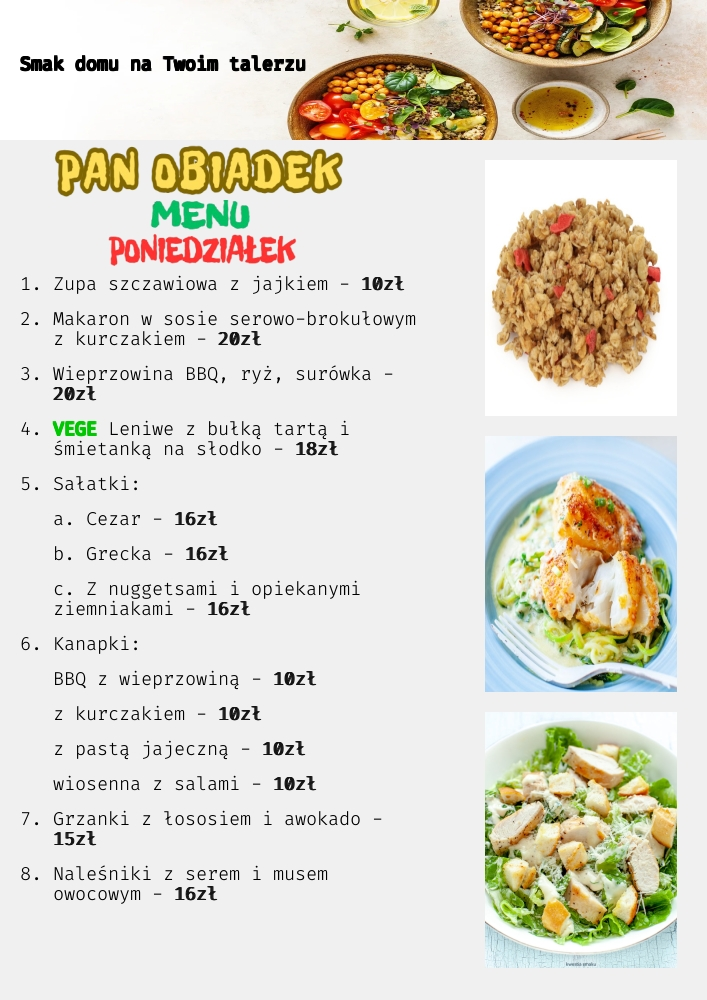
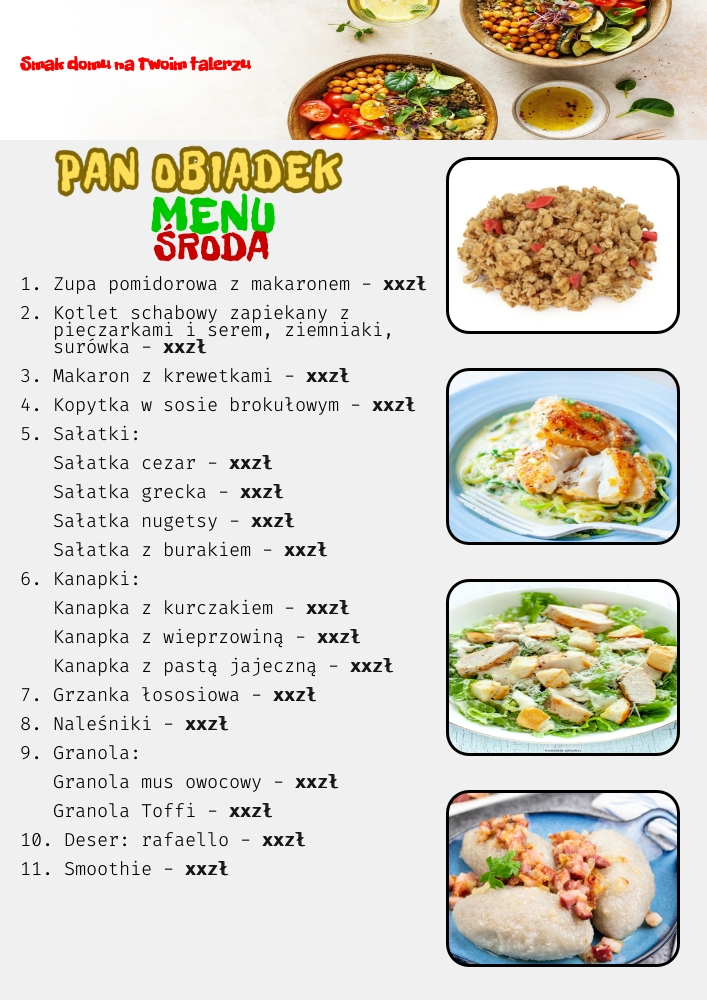
ADD generating menu jpeg

diff --git a/app/views/test.view.php b/app/views/test.view.php
@@ -1,6 +1,27 @@
 <?php
 $max_chars = 20; // Maksymalna liczba znaków na linię, uwzględniając "asd"
 
+$days = [
+    0 => "NIEDZIELA",
+    1 => "PONIEDZIAŁEK",
+    2 => "WTOREK",
+    3 => "ŚRODA",
+    4 => "CZWARTEK",
+    5 => "PIĄTEK",
+    6 => "SOBOTA"
+];
+$offs = [
+    0 => 40,
+    1 => 0,
+    2 => 60,
+    3 => 70,
+    4 => 40,
+    5 => 65,
+    6 => 65
+];
+
+$day = 3;
+
 function podziel_tekst_na_linie($tekst, $max_chars) {
     $wynik = '';
     $prefix = "   ";
@@ -42,6 +63,73 @@ function podziel_tekst_na_linie($tekst, $max_chars) {
 
     return $wynik;
 }
+
+function roundCorners($source, $radius) {
+    $ws = imagesx($source);
+    $hs = imagesy($source);
+
+    $corner = $radius + 2;
+    $s = $corner*2;
+
+    $src = imagecreatetruecolor($s, $s);
+    imagecopy($src, $source, 0, 0, 0, 0, $corner, $corner);
+    imagecopy($src, $source, $corner, 0, $ws - $corner, 0, $corner, $corner);
+    imagecopy($src, $source, $corner, $corner, $ws - $corner, $hs - $corner, $corner, $corner);
+    imagecopy($src, $source, 0, $corner, 0, $hs - $corner, $corner, $corner);
+
+    $q = 8; # change this if you want
+    $radius *= $q;
+
+    # find unique color
+    do {
+        $r = rand(0, 255);
+        $g = rand(0, 255);
+        $b = rand(0, 255);
+    } while (imagecolorexact($src, $r, $g, $b) < 0);
+
+    $ns = $s * $q;
+
+    $img = imagecreatetruecolor($ns, $ns);
+    $alphacolor = imagecolorallocatealpha($img, $r, $g, $b, 127);
+    imagealphablending($img, false);
+    imagefilledrectangle($img, 0, 0, $ns, $ns, $alphacolor);
+
+    imagefill($img, 0, 0, $alphacolor);
+    imagecopyresampled($img, $src, 0, 0, 0, 0, $ns, $ns, $s, $s);
+    imagedestroy($src);
+
+    imagearc($img, $radius - 1, $radius - 1, $radius * 2, $radius * 2, 180, 270, $alphacolor);
+    imagefilltoborder($img, 0, 0, $alphacolor, $alphacolor);
+    imagearc($img, $ns - $radius, $radius - 1, $radius * 2, $radius * 2, 270, 0, $alphacolor);
+    imagefilltoborder($img, $ns - 1, 0, $alphacolor, $alphacolor);
+    imagearc($img, $radius - 1, $ns - $radius, $radius * 2, $radius * 2, 90, 180, $alphacolor);
+    imagefilltoborder($img, 0, $ns - 1, $alphacolor, $alphacolor);
+    imagearc($img, $ns - $radius, $ns - $radius, $radius * 2, $radius * 2, 0, 90, $alphacolor);
+    imagefilltoborder($img, $ns - 1, $ns - 1, $alphacolor, $alphacolor);
+    imagealphablending($img, true);
+    imagecolortransparent($img, $alphacolor);
+
+    # resize image down
+    $dest = imagecreatetruecolor($s, $s);
+    imagealphablending($dest, false);
+    imagefilledrectangle($dest, 0, 0, $s, $s, $alphacolor);
+    imagecopyresampled($dest, $img, 0, 0, 0, 0, $s, $s, $ns, $ns);
+    imagedestroy($img);
+
+    # output image
+    imagealphablending($source, false);
+    imagecopy($source, $dest, 0, 0, 0, 0, $corner, $corner);
+    imagecopy($source, $dest, $ws - $corner, 0, $corner, 0, $corner, $corner);
+    imagecopy($source, $dest, $ws - $corner, $hs - $corner, $corner, $corner, $corner, $corner);
+    imagecopy($source, $dest, 0, $hs - $corner, 0, $corner, $corner, $corner);
+    imagealphablending($source, true);
+    imagedestroy($dest);
+
+    return $source;
+}
+
+
+
 // Ustawienia obrazu
 $szerokosc = 707; // Szerokość obrazu
 $wysokosc = 1000; // Wysokość obrazu
@@ -52,8 +140,10 @@ $word_menu_wys = 30;
 $word_menu_szer = 100;
 $day_from_left = 0;
 $day_wys = 40;
-$food_wys = 256;
-$food_szer = 192;
+$food_wys = 171; //256
+$food_szer = 228; //192
+$radius = 20;
+$border = 3;
 
 $menu_txt = "1. Zupa szczawiowa z jajkiem - 10zł\n"
           . "2. Makaron w sosie serowo-brokułowym z kurczakiem - 20zł\n"
@@ -71,8 +161,76 @@ $menu_txt = "1. Zupa szczawiowa z jajkiem - 10zł\n"
           . "7. Grzanki z łososiem i awokado - 15zł\n"
           . "8. Naleśniki z serem i musem owocowym - 16zł";
 
+$menu_txt = "";
+$int = 1;
+foreach($data["list"] as $row_key => $row_val) {
+    if($row_key == "1-03" || $row_key == "1-04") {
+        foreach($row_val as $dan) {
+            $prod_name = $dan->p_name;
+            $vege = "";
+            if(isset($dan->friendly_name)) {
+                $prod_name = $dan->friendly_name;
+            }
+            if(isset($dan->vege)) {
+                if($dan->vege == true) {
+                    $prod_name = $dan->friendly_name;
+                    $vege = "VEGE";
+                }
+            }
+            $menu_txt .= $int.".".$vege." ".$dan->p_name." - xxzł\n";
+            $int++;
+        }
+    } else if($row_key == "1-01"){
+        $menu_txt .= $int.". Sałatki:\n";
+        foreach($row_val as $dan) {
+            $prod_name = $dan->p_name;
+            if(isset($dan->friendly_name)) {
+                $prod_name = $dan->friendly_name;
+            }
+            $menu_txt .= "   ".$dan->p_name." - xxzł\n";
+        }
+        $int++;
+    } else if($row_key == "1-02"){
+        $menu_txt .= $int.". Kanapki:\n";
+        foreach($row_val as $dan) {
+            $prod_name = $dan->p_name;
+            if(isset($dan->friendly_name)) {
+                $prod_name = $dan->friendly_name;
+            }
+            $menu_txt .= "   ".$dan->p_name." - xxzł\n";
+        }
+        $int++;
+    } else if($row_key == "3"){
+        $menu_txt .= $int.". Granola:\n";
+        foreach($row_val as $dan) {
+            $prod_name = $dan->p_name;
+            if(isset($dan->friendly_name)) {
+                $prod_name = $dan->friendly_name;
+            }
+            $menu_txt .= "   ".$dan->p_name." - xxzł\n";
+        }
+        $int++;
+    } else {
+        foreach($row_val as $dan) {
+            $prod_name = $dan->p_name;
+            if(isset($dan->friendly_name)) {
+                $prod_name = $dan->friendly_name;
+            }
+            $menu_txt .= $int.". ".$dan->p_name." - xxzł\n";
+        }
+        $int++;
+    
+    }
+}
+
+
+
 // Tworzenie pustego obrazu
 $obraz = imagecreatetruecolor($szerokosc, $wysokosc);
+
+$black = imagecreatetruecolor($food_szer + ($border * 2), $food_wys + ($border*2));
+$czarny = imagecolorallocate($black, 0, 0, 0);
+imagefill($black, 0, 0, $czarny);
 
 // Definiowanie kolorów (R, G, B)
 $kolorTla = imagecolorallocate($obraz, 240, 240, 240); // Biały kolor tła
@@ -131,30 +289,51 @@ imagecopyresampled($food_new[2], $food_2, 0, 0, 0, 0, $food_szer, $food_wys, ima
 imagecopyresampled($food_new[3], $food_3, 0, 0, 0, 0, $food_szer, $food_wys, imagesx($food_3), imagesy($food_3));
 imagecopyresampled($food_new[4], $food_4, 0, 0, 0, 0, $food_szer, $food_wys, imagesx($food_4), imagesy($food_4));
 
-$day_from_left = ($menu_szer - imagesx($day_ss) / 2 )/2 ;
+$food_new[1] = roundCorners($food_new[1],  $radius);
+$food_new[2] = roundCorners($food_new[2],  $radius);
+$food_new[3] = roundCorners($food_new[3],  $radius);
+$food_new[4] = roundCorners($food_new[4],  $radius);
+$black = roundCorners($black,  $radius+3);
+
+$day_from_left = 84 + $offs[$day]; //12 //7 //84 // 60
 // Kopiowanie przeskalowanego tła na główny obraz
+
+$font = IMG_ROOT_UPLOAD . '/FreckleFace-Regular.ttf';
+$fontSize = 40; // Rozmiar czcionki
+$kolorTekstu = imagecolorallocate($obraz, 0, 200, 0);
+
 imagecopy($obraz, $header_logo_new, 0, 0, 0, 0, $szerokosc, $wysokoscTlo);
 imagecopy($obraz, $po_name_new, 50, $wysokoscTlo, 0, 0, $menu_szer - 100, $po_logo_wys);
-imagecopy($obraz, $word_menu_new, ($menu_szer - 100) / 2, $wysokoscTlo + $po_logo_wys, 0, 0, $word_menu_szer, $word_menu_wys);
-imagecopy($obraz, $day_ss_new, $day_from_left, $wysokoscTlo + $po_logo_wys + $word_menu_wys, 0, 0, 300, $day_wys);
+//imagecopy($obraz, $word_menu_new, ($menu_szer - 100) / 2, $wysokoscTlo + $po_logo_wys, 0, 0, $word_menu_szer, $word_menu_wys);
+imagettftext($obraz, $fontSize, 0, ($menu_szer - 100) / 2, $wysokoscTlo + $po_logo_wys + $fontSize - 7, $kolorTekstu, $font, "MENU");
 
-for($i = 0; $i<=2; $i++) {
-    imagecopy($obraz, $food_new[$i+1], $szerokosc - $food_szer - 30, $wysokoscTlo + 20 + (($food_wys+20) * $i), 0, 0, $food_szer, $food_wys);
+$fontSize = 30; // Rozmiar czcionki
+$kolorTekstu = imagecolorallocate($obraz, 200, 0, 0);
+imagettftext($obraz, $fontSize, 0, $day_from_left, $wysokoscTlo + $po_logo_wys + $word_menu_wys + $fontSize, $kolorTekstu, $font, $days[$day]);
+//imagecopy($obraz, $day_ss_new, $day_from_left, $wysokoscTlo + $po_logo_wys + $word_menu_wys, 0, 0, 300, $day_wys);
+
+for($i = 0; $i<=3; $i++) {
+    imagecopy($obraz, $black, $szerokosc - $food_szer - 30 - $border, $wysokoscTlo + 20 + (($food_wys+40) * $i) - $border, 0, 0, $food_szer+($border*2), $food_wys+($border*2));
+    imagecopy($obraz, $food_new[$i+1], $szerokosc - $food_szer - 30, $wysokoscTlo + 20 + (($food_wys+40) * $i), 0, 0, $food_szer, $food_wys);
 }
 
 
-$font = IMG_ROOT_UPLOAD . '/FiraCode-VariableFont_wght.ttf';//HelveticaWorld-Regular.ttf
+
+
 // Dodanie tekstu do obrazu (pod tłem)
 $tekst = "Smak domu na Twoim talerzu";
+$kolorTekstu = imagecolorallocate($obraz, 255, 0, 0); // Czarny kolor tekstu
 $fontSize = 14; // Rozmiar czcionki
 $x = 20; // Pozycja X tekstu
 $y = 70; // Pozycja Y tekstu (pod tłem)
-for ($i = -1; $i <= 1; $i++) {
-    for ($j = -1; $j <= 1; $j++) {
+for ($i = 0; $i <= 1; $i++) {
+    for ($j = 0; $j <= 0; $j++) {
         imagettftext($obraz, $fontSize, 0, $x + $i, $y + $j, $kolorTekstu, $font, $tekst);
     }
 }
+$kolorTekstu = imagecolorallocate($obraz, 0, 0, 0); // Czarny kolor tekstu
 
+$font = IMG_ROOT_UPLOAD . '/FiraCode-VariableFont_wght.ttf';//HelveticaWorld-Regular.ttf
 $fontSize = 14; // Rozmiar czcionki
 $x = 20; // Pozycja X tekstu
 $y = $wysokoscTlo + $po_logo_wys + $word_menu_wys + $day_wys; // Pozycja Y tekstu (pod tłem)
@@ -164,7 +343,7 @@ $lineHeight = 15; // Wysokość jednej linii
 $y += 20; // Odstęp od górnej krawędzi obrazu
 
 
-$max_chars = 38;
+$max_chars = 40;
 foreach ($lines as $line) {
     // Podziel linie, jeśli są dłuższe niż $max_chars
     $podzielone_linie = podziel_tekst_na_linie($line, $max_chars);
@@ -195,9 +374,9 @@ foreach ($lines as $line) {
                 imagettftext($obraz, $fontSize, 0, $x + $i, $y, imagecolorallocate($obraz, 20, 20, 20), $font, $temp_txt);
             }
         } 
-        $y += $lineHeight + 5;
+        $y += $lineHeight + 2; // + 5
     }
-    $y += $lineHeight;
+    $y += $lineHeight-3;
 }
 
 // Nagłówek HTTP informujący przeglądarkę, że zwracany plik to obraz JPEG

diff --git a/app/controllers/Test.php b/app/controllers/Test.php
@@ -14,6 +14,74 @@ class Test
 
         $data = [];
 
+        $URL = $_GET['url'] ?? 'home';
+        $URL = explode("/", trim($URL, "/"));
+        if(isset($URL[2])) {
+            $date = $URL[2];
+        } else {
+            if(isset($_GET["date"])) {
+                $date = $_GET["date"];
+            } else {
+                $date = date('Y-m-d');
+            }
+        }
+        $w_id = 1;
+        $data["list"]["1-03"] = [];
+        $data["list"]["1-04"] = [];
+        $data["list"]["1-01"] = [];
+        $data["list"]["1-02"] = [];
+        $data["list"]["1"] = [];
+        $data["list"]["2"] = [];
+        $data["list"]["3"] = [];
+        $data["list"]["4"] = [];
+        $data["list"]["5"] = [];
+        $data["list"]["6"] = [];
+        $data["list"]["1-05"] = [];
+
+        $skus = new Skumodel();
+        foreach($skus->getByParent(1) as $sku) {
+            $data["sku"][$sku->full_type] = $sku;
+        }
+        $products_list = new ProductsModel();
+        foreach ($products_list->getAllFullProducts() as $key => $value) {
+            $data["fullproducts"][$value->id] = $value;
+        }
+        $planned = new Plannerproduction();
+        $int = 1;
+        $gr = 0;
+        if(!empty($planned->getPlanned($date, $w_id))) {
+            foreach ($planned->getPlanned($date, $w_id) as $key => $value) {
+                $data["planned"][$value->p_id] = $value;
+                if ($value->p_id == 11) { //grzanka łososiowa
+                    $data["list"][1][] = $data["fullproducts"][$value->p_id];
+                    $int++;
+                } else if ($value->p_id == 14) {
+                    $data["list"][2][] = $data["fullproducts"][$value->p_id];
+                    $int++;
+                } else if ($value->p_id == 40 || $value->p_id == 41) {
+                    $data["list"][3][] = $data["fullproducts"][$value->p_id];
+                    $int++;
+                } else if (substr($data["fullproducts"][$value->p_id]->p_name, 0, 5) == "Deser") {
+                    $data["list"][4][] = $data["fullproducts"][$value->p_id];
+                    $int++;
+                } else if (substr($data["fullproducts"][$value->p_id]->p_name, 0, 8) == "Smoothie") {
+                    $data["list"][5][] = $data["fullproducts"][$value->p_id];
+                    $int++;
+                }  else {
+                    $data["list"][substr($data["fullproducts"][$value->p_id]->sku,0,4)][] = $data["fullproducts"][$value->p_id];
+                    //show($value);
+                }
+
+                //$data["list"]
+            }
+        }
+        
+
+        
+        $data["day_num"] = 1;
+
+        //show($data);
+        //die;
         $this->view('test', $data);
     }
     public function wa()

diff --git a/app/models/Skumodel.php b/app/models/Skumodel.php
@@ -29,5 +29,10 @@ class Skumodel
         $query = "select * from $this->table WHERE id = '$id' ORDER BY full_type ASC;";
         return $this->query($query);
     }
+    public function getByParent($id)
+    {
+        $query = "select * from $this->table WHERE parent = '$id' ORDER BY full_type ASC;";
+        return $this->query($query);
+    }
     
 }

diff --git a/app/views/planner.new.view.php b/app/views/planner.new.view.php
@@ -33,7 +33,7 @@
                     }
                     $toBlock = "";
                     $toBlockButton = "";
-                    if($date<=date("Y-m-d")) {
+                    if($date<date("Y-m-d")) {
                         $toBlock = " disabled";
                         $toBlockButton = " hidden";
                     }

diff --git a/app/views/planner.split.view.php b/app/views/planner.split.view.php
@@ -37,7 +37,7 @@
                     }
                     $toBlock = "";
                     $toBlockButton = "";
-                    if($date<=date("Y-m-d")) {
+                    if($date<date("Y-m-d")) {
                         $toBlock = " disabled";
                         $toBlockButton = " hidden";
                     }
